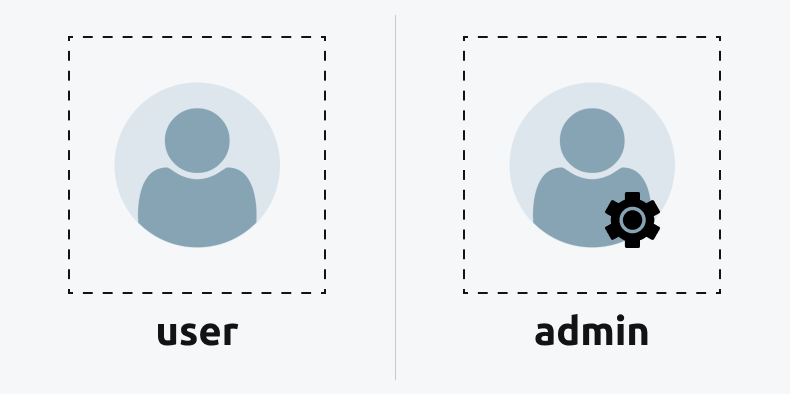
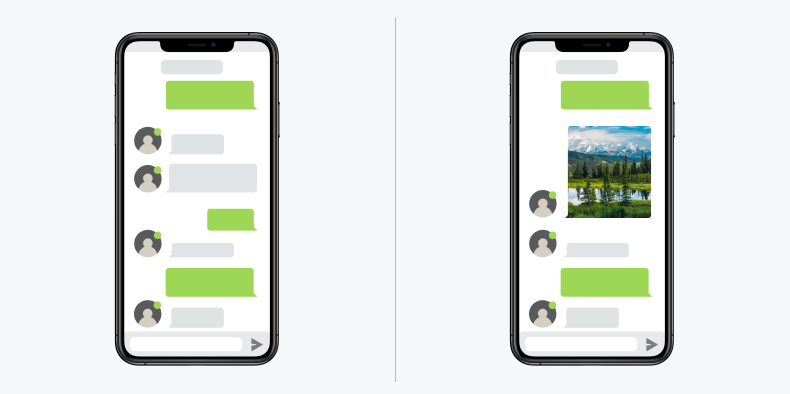
Polished polymorphism article

Changed region(s): [[0.1215, 0.0609, 0.3949, 0.9442], [0.6076, 0.0609, 0.9114, 0.9442], [0.881, 0.0914, 0.9114, 0.1218]]

diff --git a/components/Header/Logo.tsx b/components/Header/Logo.tsx
@@ -26,13 +26,7 @@ const Logo = () => {
 
   const onTheMainPage = router.pathname === "/";
 
-  return onTheMainPage ? (
-    logo
-  ) : (
-    <Link href="/" legacyBehavior>
-      {logo}
-    </Link>
-  );
+  return onTheMainPage ? logo : <Link href="/">{logo}</Link>;
 };
 
 export default Logo;

diff --git a/content/posts/2022-11-28-what-is-polymorphism.md b/content/posts/2022-11-28-what-is-polymorphism.md
@@ -1,0 +1,66 @@
+---
+title: What is polymorphism?
+date: 2022-11-28T11:32:28.173Z
+featuredImage: /post-images/what-is-polymorphism.jpg
+draft: false
+tags: [ProgrammingConcept]
+---
+
+I was asked this question, so many times during job interviews that I decided to write an entire article about it.
+
+Even though the word sounds scary, the entire concept behind it is very simple.
+
+Let's start off with the example, as a picture is worth a thousand of words.
+
+### Example #1
+
+![](/post-images/what-is-polymorphism-example-1.png)
+
+> A car is a car <br>
+> A track is car <br>
+> They are both cars, but they are not entirely the same.
+
+What's common about them? They both take you from point A to point B; hence they are cars, but driving a track makes you money, while driving a car is an expense hence polymorphism.
+
+### Example #2
+
+Let's say we have some social network or web forum, and on that platform we apparently have some users, they both can create posts, create comments, chat, and etc.
+
+![](/post-images/what-is-polymorphism-example-2.png)
+
+Their interface can look something like this:
+
+```typescript
+// Regular user
+const user1 = { name: "Jane Doe", age: 25 };
+```
+
+```typescript
+// Admin user
+const user2 = { name: "John Doe", age: 25, admin: true };
+```
+
+The only admin difference between those types of users is that admin can remove content created by other people.
+
+### Example #3
+
+I think by now you should be starting to grasp the concept, but let's get into a more nuanced example, where you might not initially spot the case for polymorphism pattern.
+
+![](/post-images/what-is-polymorphism-example-3.png)
+
+Do you see it?
+
+Those are all phones with chat messages, but the on the right has an image attached to it.
+
+It might not seem like a big deal, especialy if you haven't worked with back-end, but in reality you might have to deploy an extra dedicated server, just to store those images alone, and supports this feature.
+
+## Why should I care?
+
+There are a few reasons:
+
+1. It's going to give you a couple of extra points on job interviews
+2. It will increase your knowledge about architecture,
+   [or also known as high level thinking](https://i.imgur.com/hunkkp4.png)
+3. By better planning in advance, you can save a lot of time and work faster
+4. Not only this knowledge is important for general intelligence, but it's also required for senion level jobs
+5. W̶o̶m̶e̶n̶ ̶w̶i̶l̶l̶ ̶l̶i̶k̶e̶ ̶y̶o̶u̶ ̶m̶o̶r̶e - I don't know I only impressed dudes with this one, you go ahead and try it, and let me know how it went 😜
